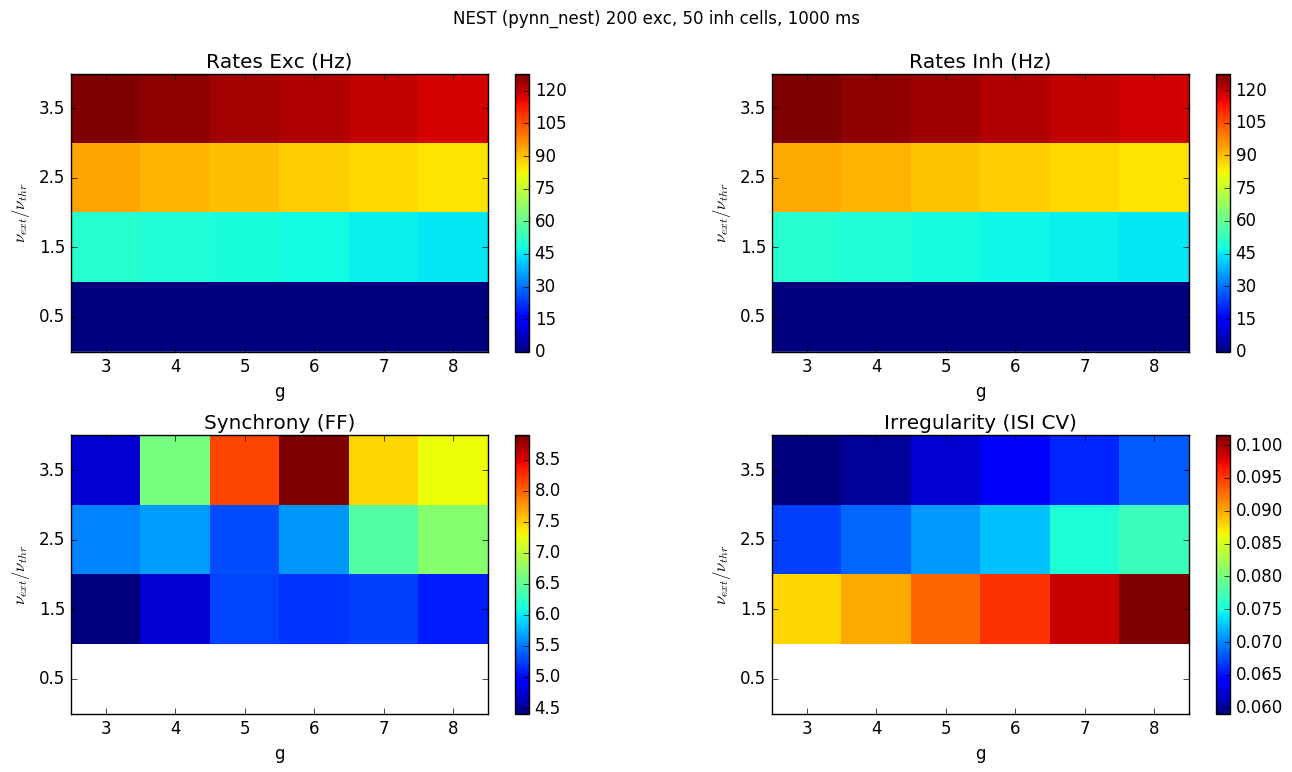
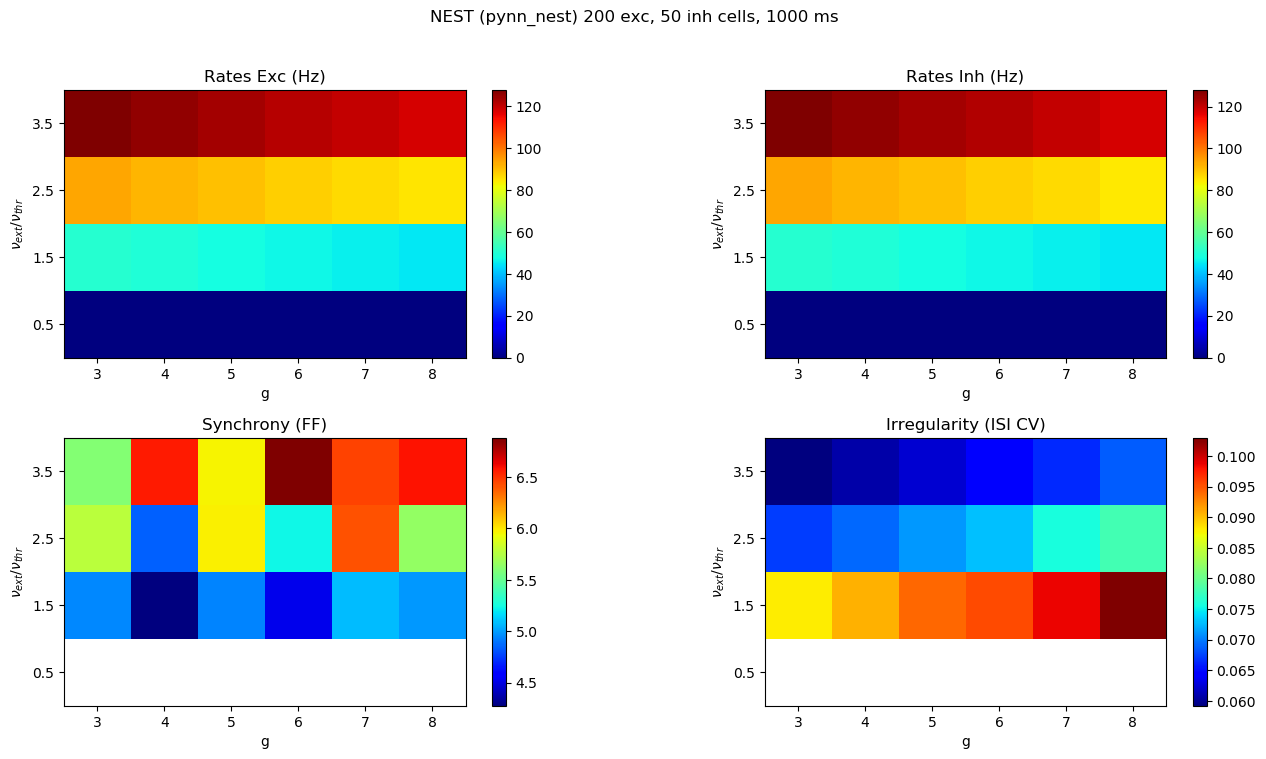
Regenerated some

diff --git a/NEST/paramSweep.py b/NEST/paramSweep.py
@@ -200,20 +200,36 @@ def runParameterSweep(runBrunelNetwork, label, simtime = 1000.0, order = 2500, s
     
 if __name__ == '__main__':
     
-    if '-nestsmall' in sys.argv:
+
+
+    if '-nestsmall' in sys.argv or '-all' in sys.argv:
         
         from brunel_alpha_nest import runBrunelNetwork as runBrunelNetworkAlpha
         
         runParameterSweep(runBrunelNetworkAlpha, "alpha", simtime=1000, order=50, quick=True)
         
-    elif '-pynnnestsmall' in sys.argv:
+    if '-nest' in sys.argv or '-all' in sys.argv:
+        
+        from brunel_alpha_nest import runBrunelNetwork as runBrunelNetworkAlpha
+        
+        runParameterSweep(runBrunelNetworkAlpha, "alpha", simtime=1000, order=2500)
+        
+    if '-pynnnestsmall' in sys.argv or '-all' in sys.argv:
         
         sys.path.append("../PyNN")
         from brunel08 import runBrunelNetwork as runBrunelNetworkPyNN
         
-        runParameterSweep(runBrunelNetworkPyNN, "pynn_nest", simtime=1000, order=10, simulator_name='nest', quick=True)
+        runParameterSweep(runBrunelNetworkPyNN, "pynn_nest", simtime=1000, order=50, simulator_name='nest', quick=True)
         
-    else:
+    if '-pynnneuronsmall' in sys.argv or '-all' in sys.argv:
+        
+        sys.path.append("../PyNN")
+        from brunel08 import runBrunelNetwork as runBrunelNetworkPyNN
+        
+        ### Why does this take ages?? Accmulating something in memory??
+        runParameterSweep(runBrunelNetworkPyNN, "pynn_neuron", simtime=1000, order=50, simulator_name='neuron', quick=True) 
+        
+    if len(sys.argv)==1:
         simtime = 1000.0
         order = 500
 

diff --git a/README.md b/README.md
@@ -2,7 +2,7 @@
 
 Sparsely connected spiking neuron network from: [Brunel, Dynamics of Sparsely Connected Networks of Excitatory and Inhibitory Spiking Neurons, Journal of Computational Neuroscience 2000, Volume 8, Issue 3, pp 183-208](http://link.springer.com/article/10.1023%2FA%3A1008925309027).
 
-Comparing the Brunel 2000 model across implementations has started [here](https://github.com/OpenSourceBrain/Brunel2000/blob/master/NEST/README.md).
+Comparing the Brunel 2000 model across implementations has started [here](NEST/README.md).
 
 
 [![Build Status](https://travis-ci.org/OpenSourceBrain/Brunel2000.svg?branch=master)](https://travis-ci.org/OpenSourceBrain/Brunel2000)

diff --git a/NEST/README.md b/NEST/README.md
@@ -11,7 +11,7 @@ _Note: work in progress!_
 
 **NEST (alpha synapses)**
 
-![](NEST_alpha_N12500_1000.0ms.png)
+![](NEST_alpha_N12500_1000ms.png)
 
 **PyNN -> NEST**
 
